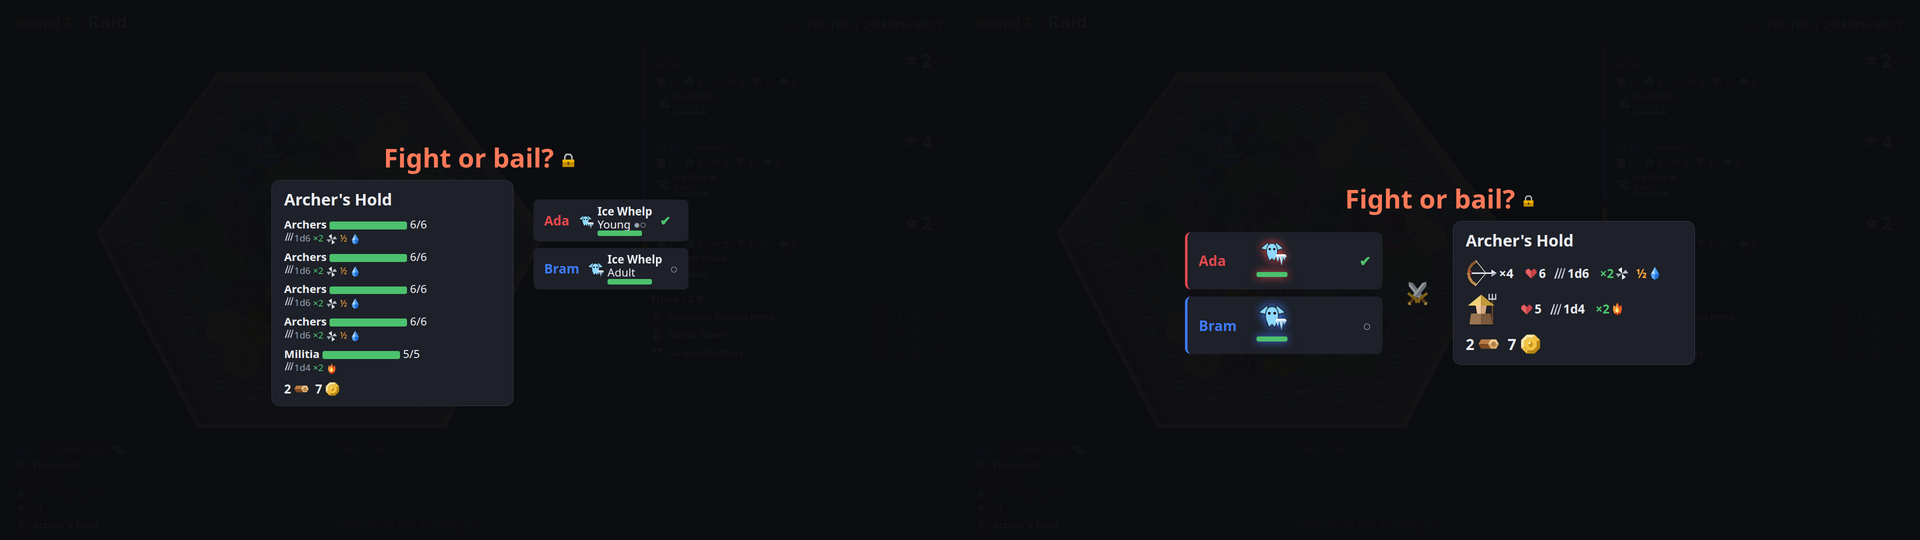
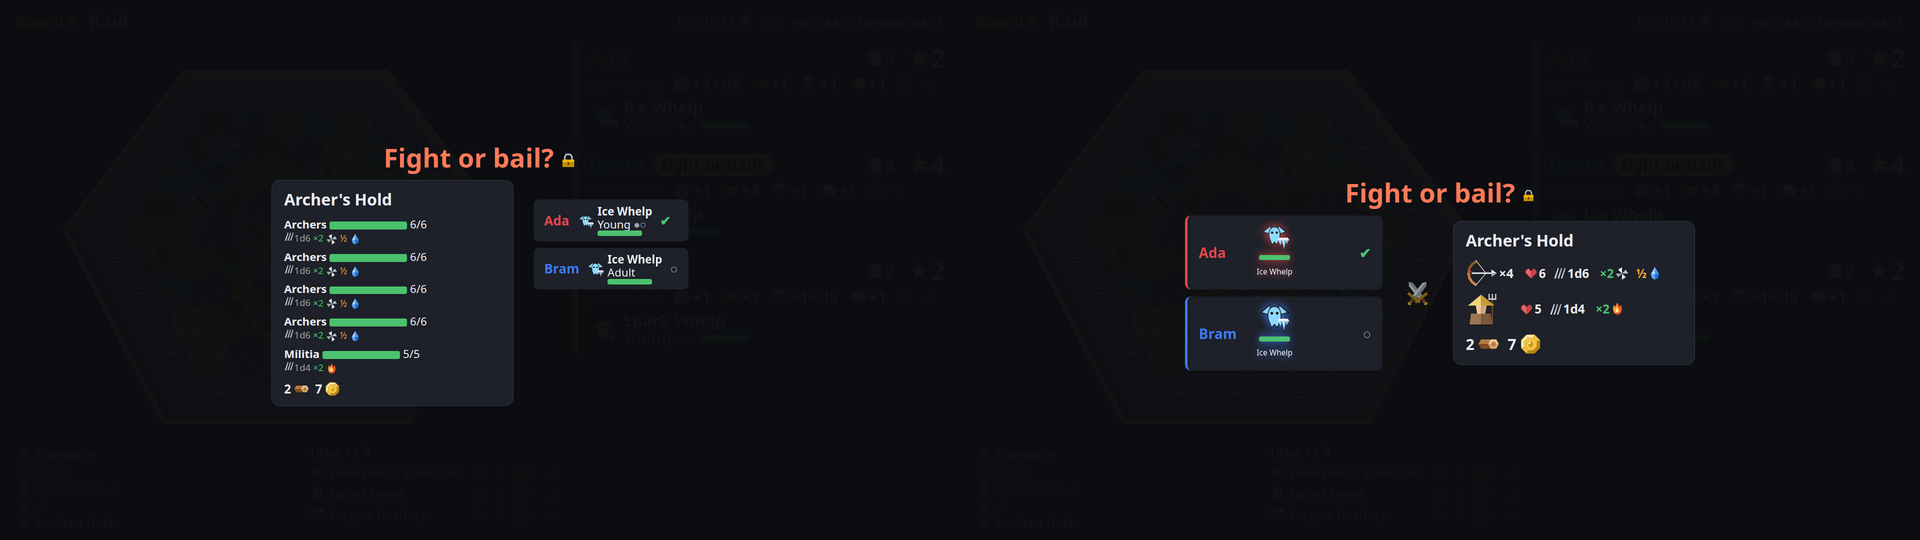
Raid screens with #45: dragon names under sent dragons, its discard label kept; shots again
Claude-Session: https://claude.ai/code/session_01MEmTqEQikExRta6zZJVEnt

Changed region(s): [[0.625, 0.3259, 0.8125, 0.5333], [0.625, 0.563, 0.6875, 0.6519], [0.6562, 0.6519, 0.6875, 0.6815]]

diff --git a/web/tv.ts b/web/tv.ts
@@ -3,7 +3,7 @@
 
 import type { DragonView, EventView, PublicState, Snapshot, TargetView } from '../src/state.ts';
 import {
-  ELEMENT_COLORS, PLAYER_COLORS, RESOURCES, TERRAIN_COLORS, TERRAIN_NAMES, TITLE_ICON, buildingIcon, dieFace, dragonBadge, dragonChip, dragonLabel, esc, eventHtml, foeStack, gainChips, hpBar,
+  ELEMENT_COLORS, PLAYER_COLORS, RESOURCES, STAGE_LABEL, TERRAIN_COLORS, TERRAIN_NAMES, TITLE_ICON, buildingIcon, dieFace, dragonBadge, dragonChip, dragonLabel, esc, eventHtml, foeStack, gainChips, hpBar,
   icon, iconText, mapSvg, named, playerTag, post, resChips, resIcon, unitIcon, watch,
 } from './common.ts';
 import { Board3D } from './board3d.ts';
